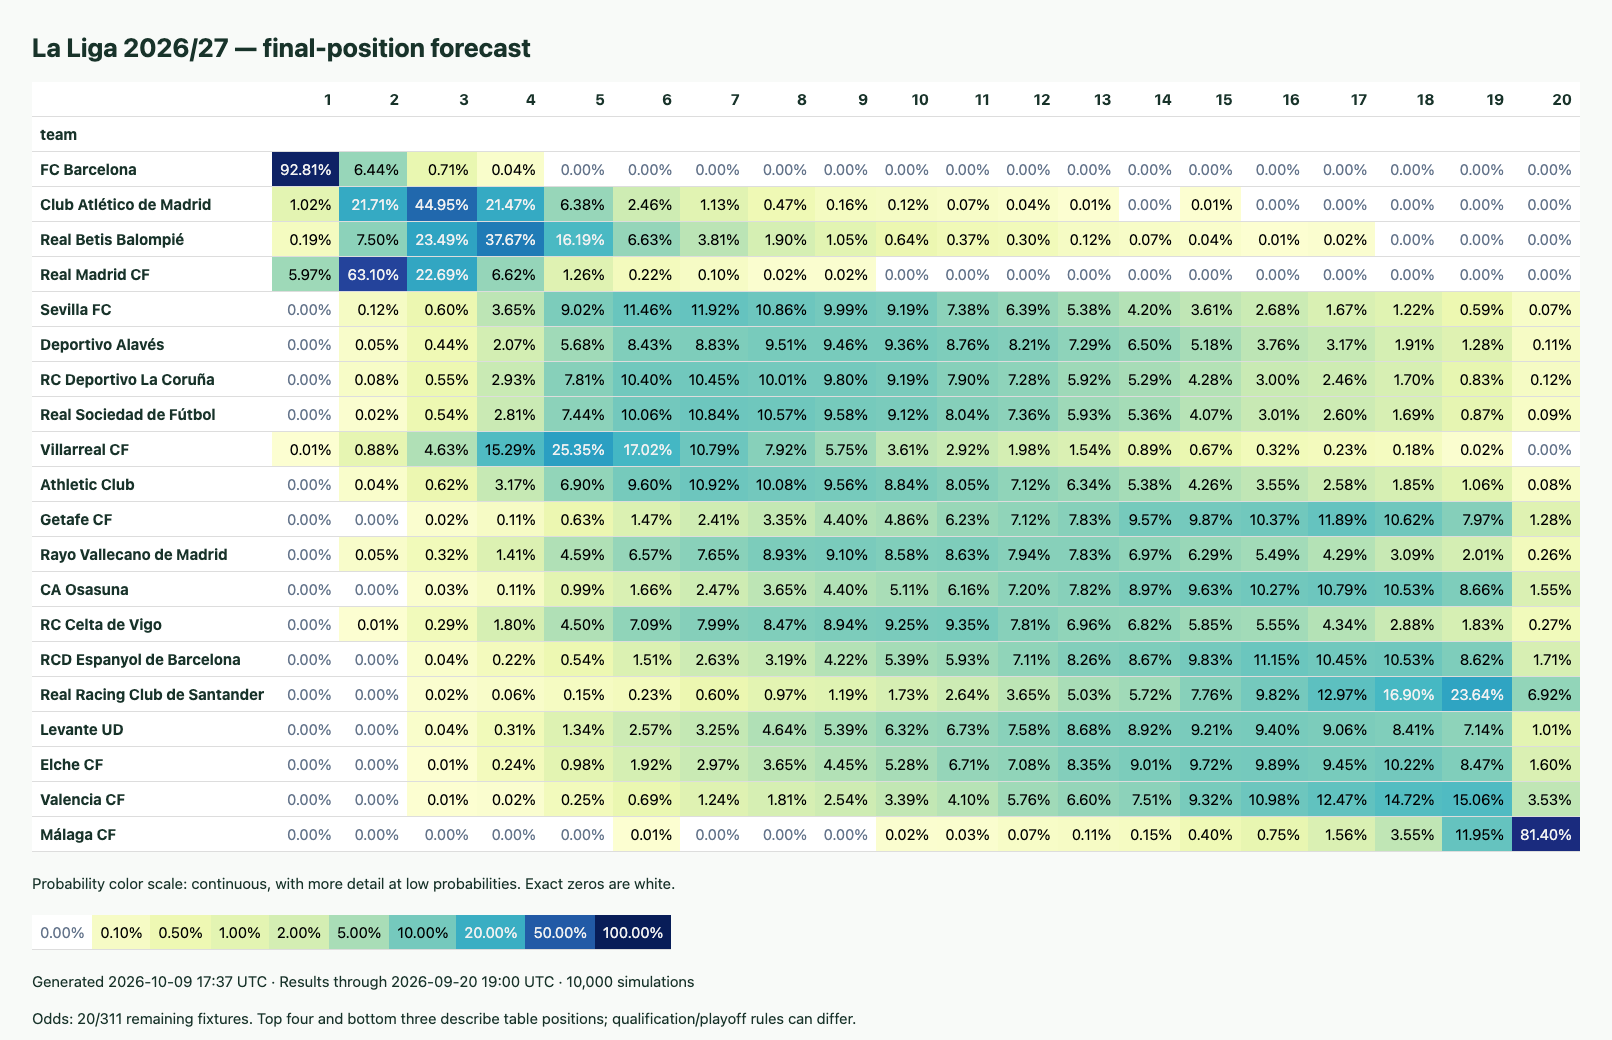
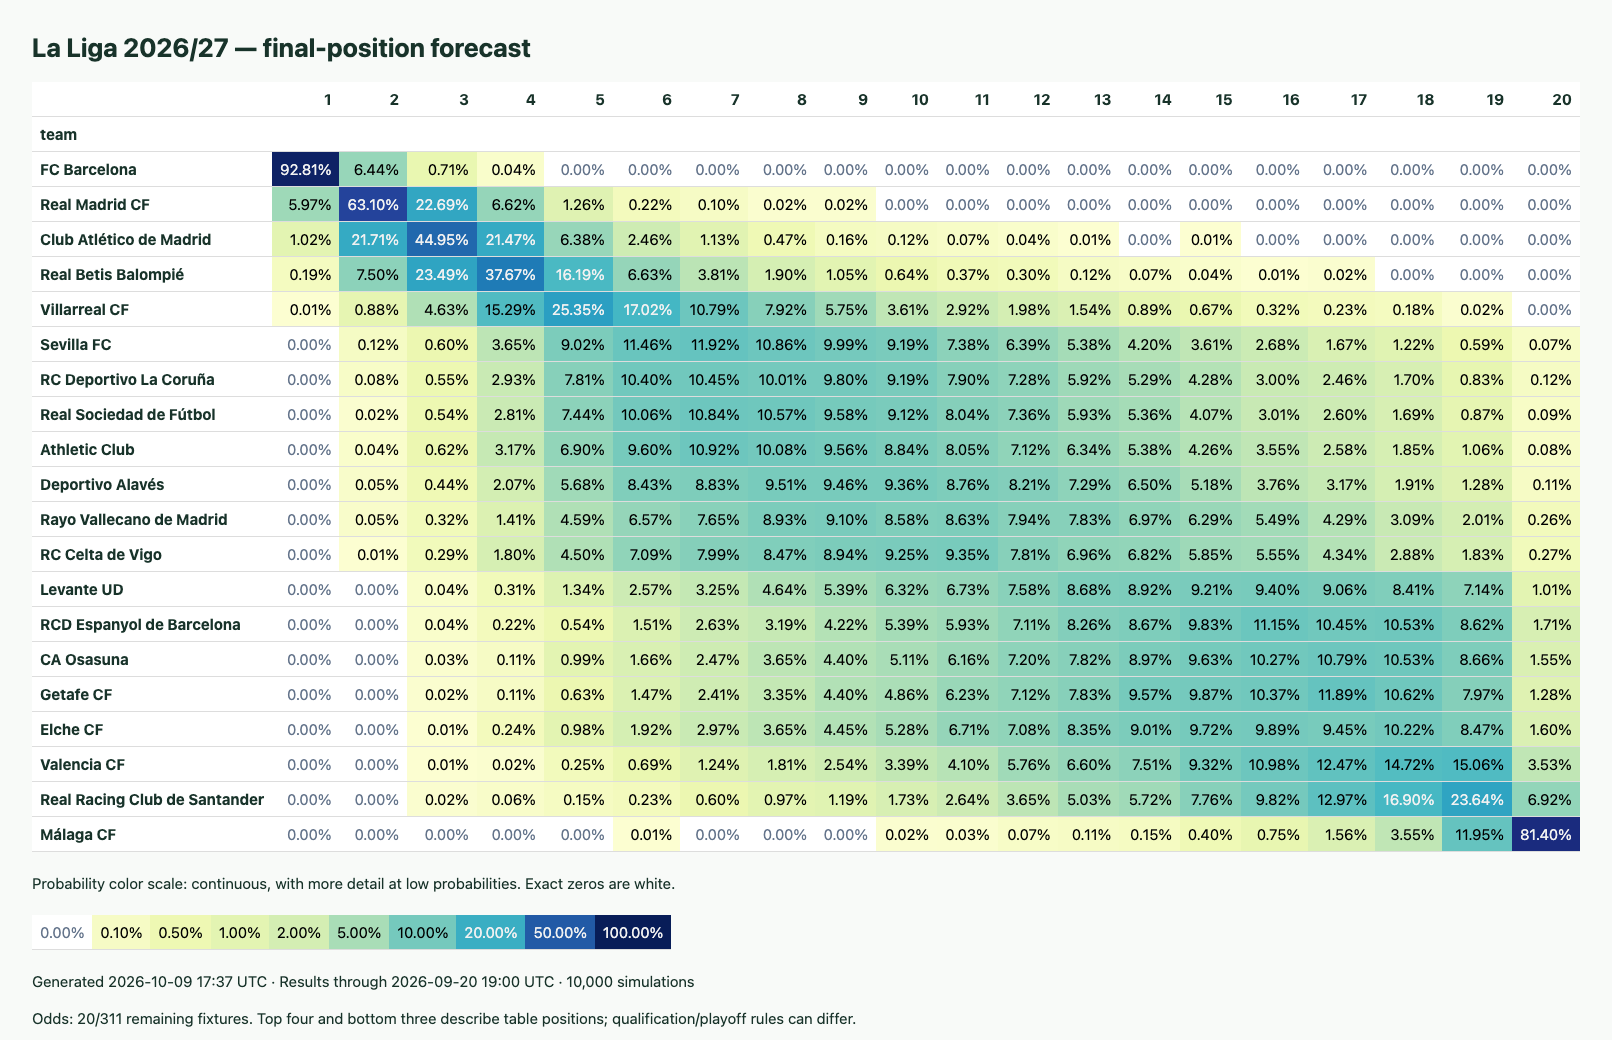
fix: order forecast heatmaps by most likely finishing position

diff --git a/src/standing_prediction/predict_positions.py b/src/standing_prediction/predict_positions.py
@@ -332,6 +332,13 @@ def _write_html(probs, *, standings, path, summary=None, metadata=None):
 
 
 def style_probabilities(probabilities):
+    if len(probabilities) > 1:
+        positions = probabilities.columns.to_numpy(dtype=float)
+        order = pd.DataFrame({
+            "most_likely": probabilities.idxmax(axis=1).astype(float),
+            "expected": probabilities.mul(positions, axis=1).sum(axis=1) / 100,
+        }).sort_values(["most_likely", "expected"], kind="stable").index
+        probabilities = probabilities.loc[order]
     return (
         probabilities.style.format("{:.2f}%")
         .background_gradient(cmap="YlGnBu", gmap=np.power(probabilities / 100, 0.4), axis=None, vmin=0, vmax=1)

diff --git a/README.md b/README.md
@@ -23,7 +23,7 @@ Head-to-head records currently serve table ranking rather than separate predicti
 
 ## Outputs
 
-`out/pd_position_probs.html` shows the colored chart first, with two-decimal percentages and a continuous nonlinear scale that makes small probabilities easier to distinguish. CSVs contain position probabilities and a summary of expected points/position, point percentiles, and title/top-four/bottom-three probabilities. JSON records the cutoff, odds coverage, model settings, and seed.
+`out/pd_position_probs.html` shows the colored chart first, sorted by each team's most likely finishing position, with average position breaking ties. Two-decimal percentages and a continuous nonlinear scale make small probabilities easier to distinguish. CSVs contain position probabilities and a summary of expected points/position, point percentiles, and title/top-four/bottom-three probabilities. JSON records the cutoff, odds coverage, model settings, and seed.
 
 Input snapshots and each forecast are archived under `out/snapshots/pd/<season>/<timestamp>/`. Point intervals are conditional on fitted team strengths; `*_mc_se_pp` measures simulation sampling error in percentage points, not model error.
 
